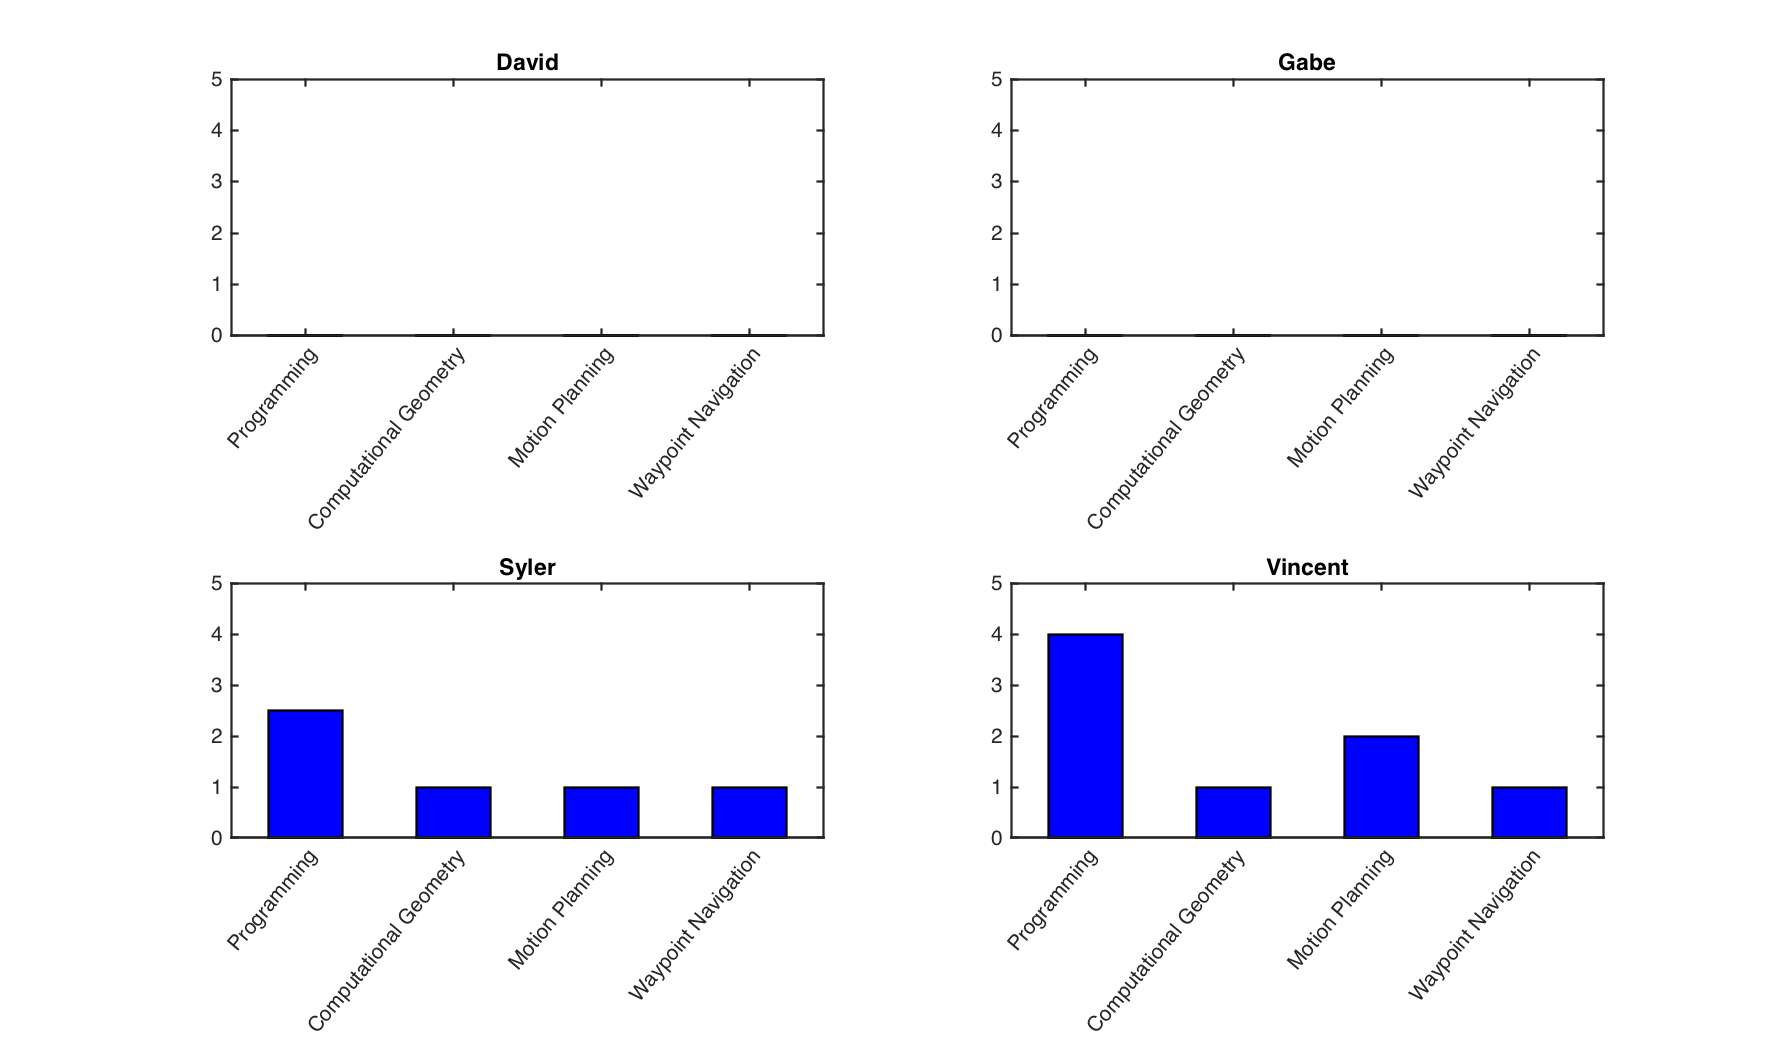
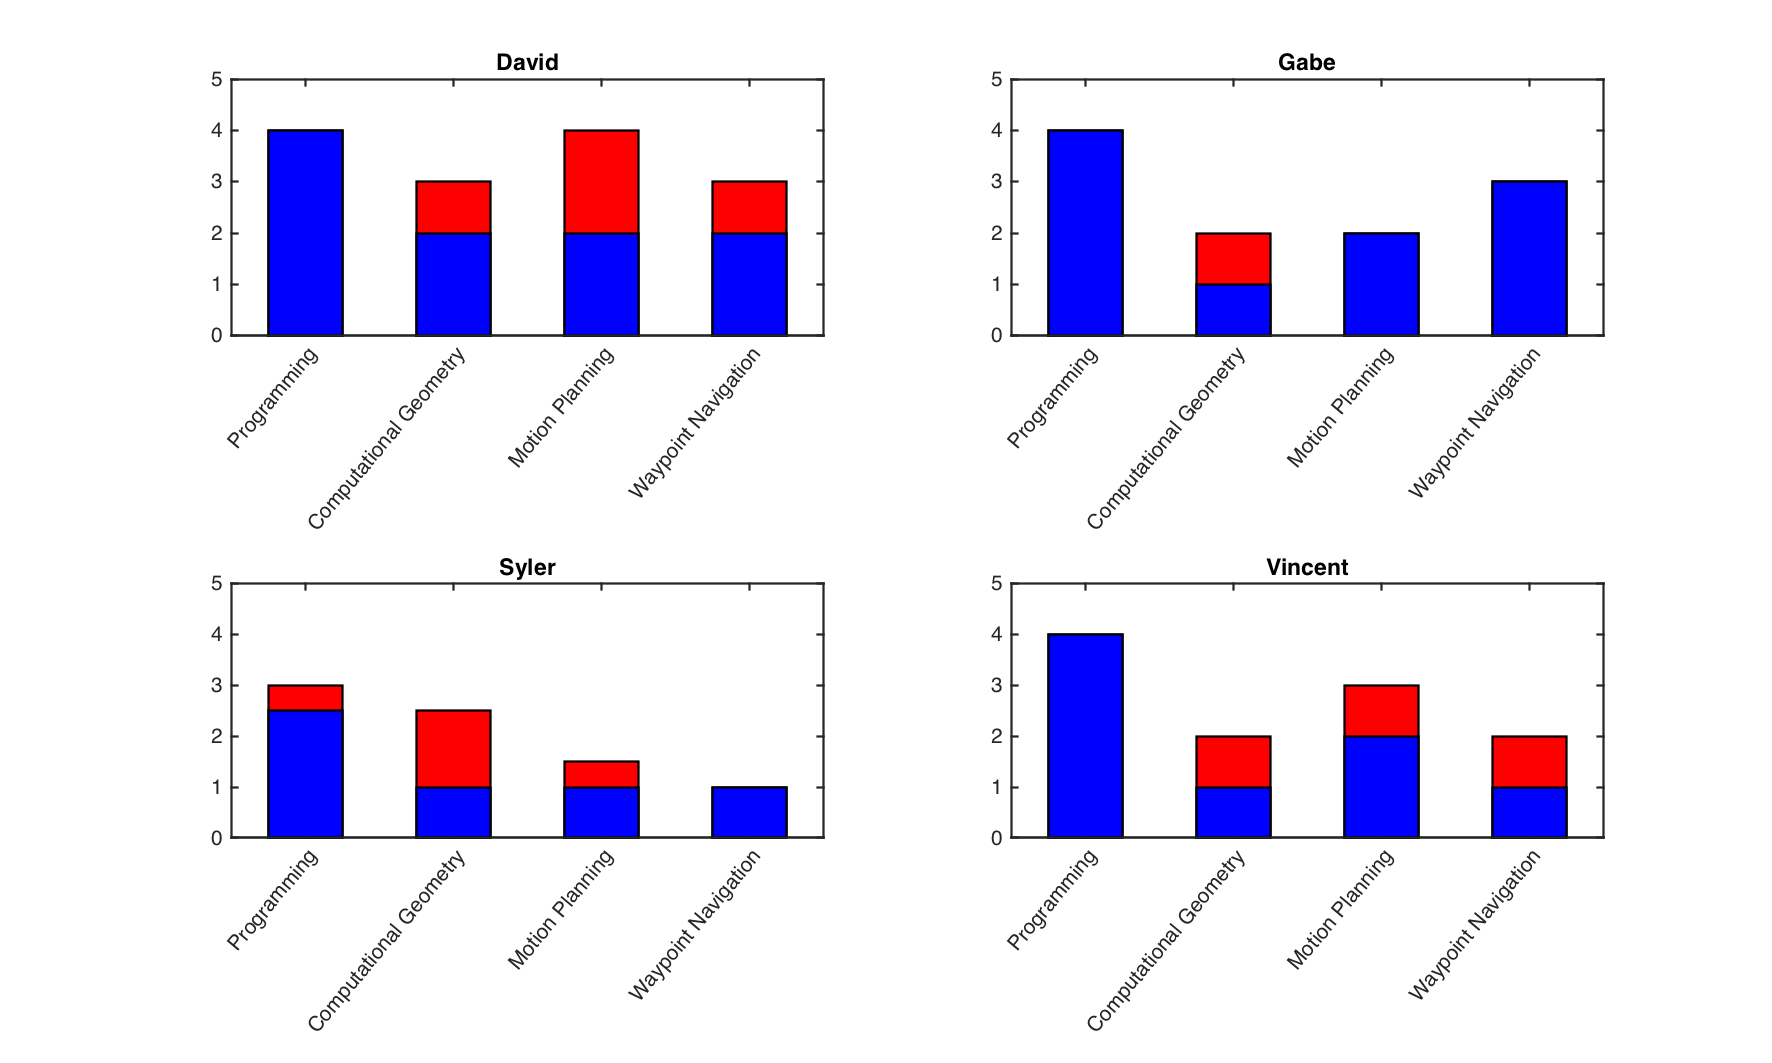
Syler: self-assessment plot final version

diff --git a/lab6/docs/L6_self_assessment_plot.m b/lab6/docs/L6_self_assessment_plot.m
@@ -16,7 +16,7 @@ S2 = [3 2.5 1.5 1]; % after
 
 % Vincent
 V1 = [4 1 2 1]; % before
-V2 = [0 0 0 0]; % after
+V2 = [4 2 3 2]; % after
 
 
 % bar x-axis labels
